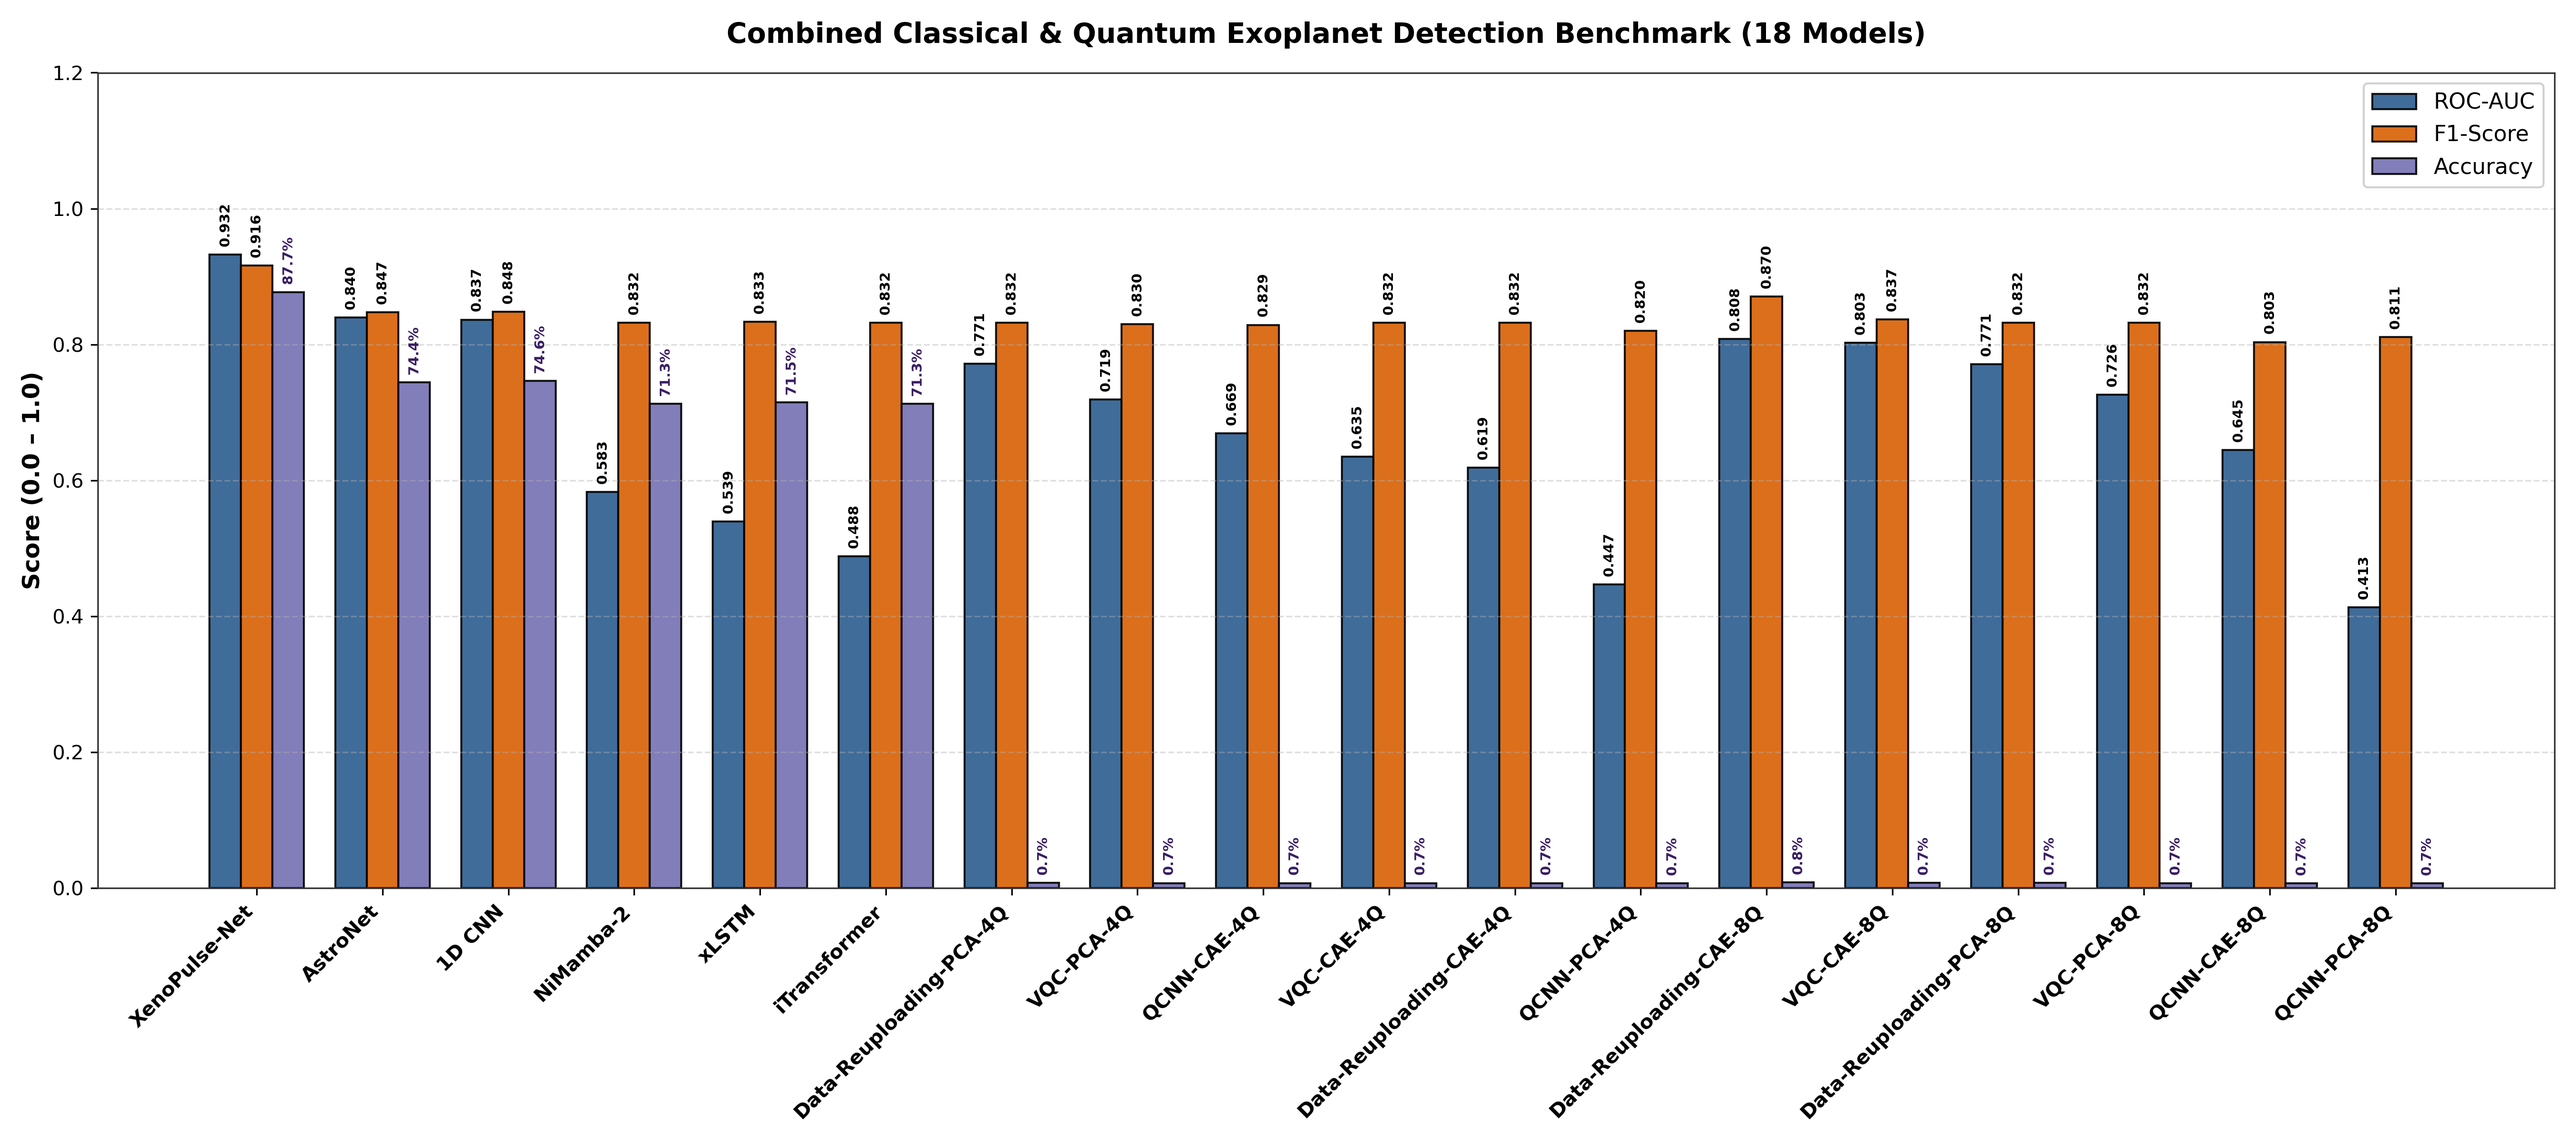
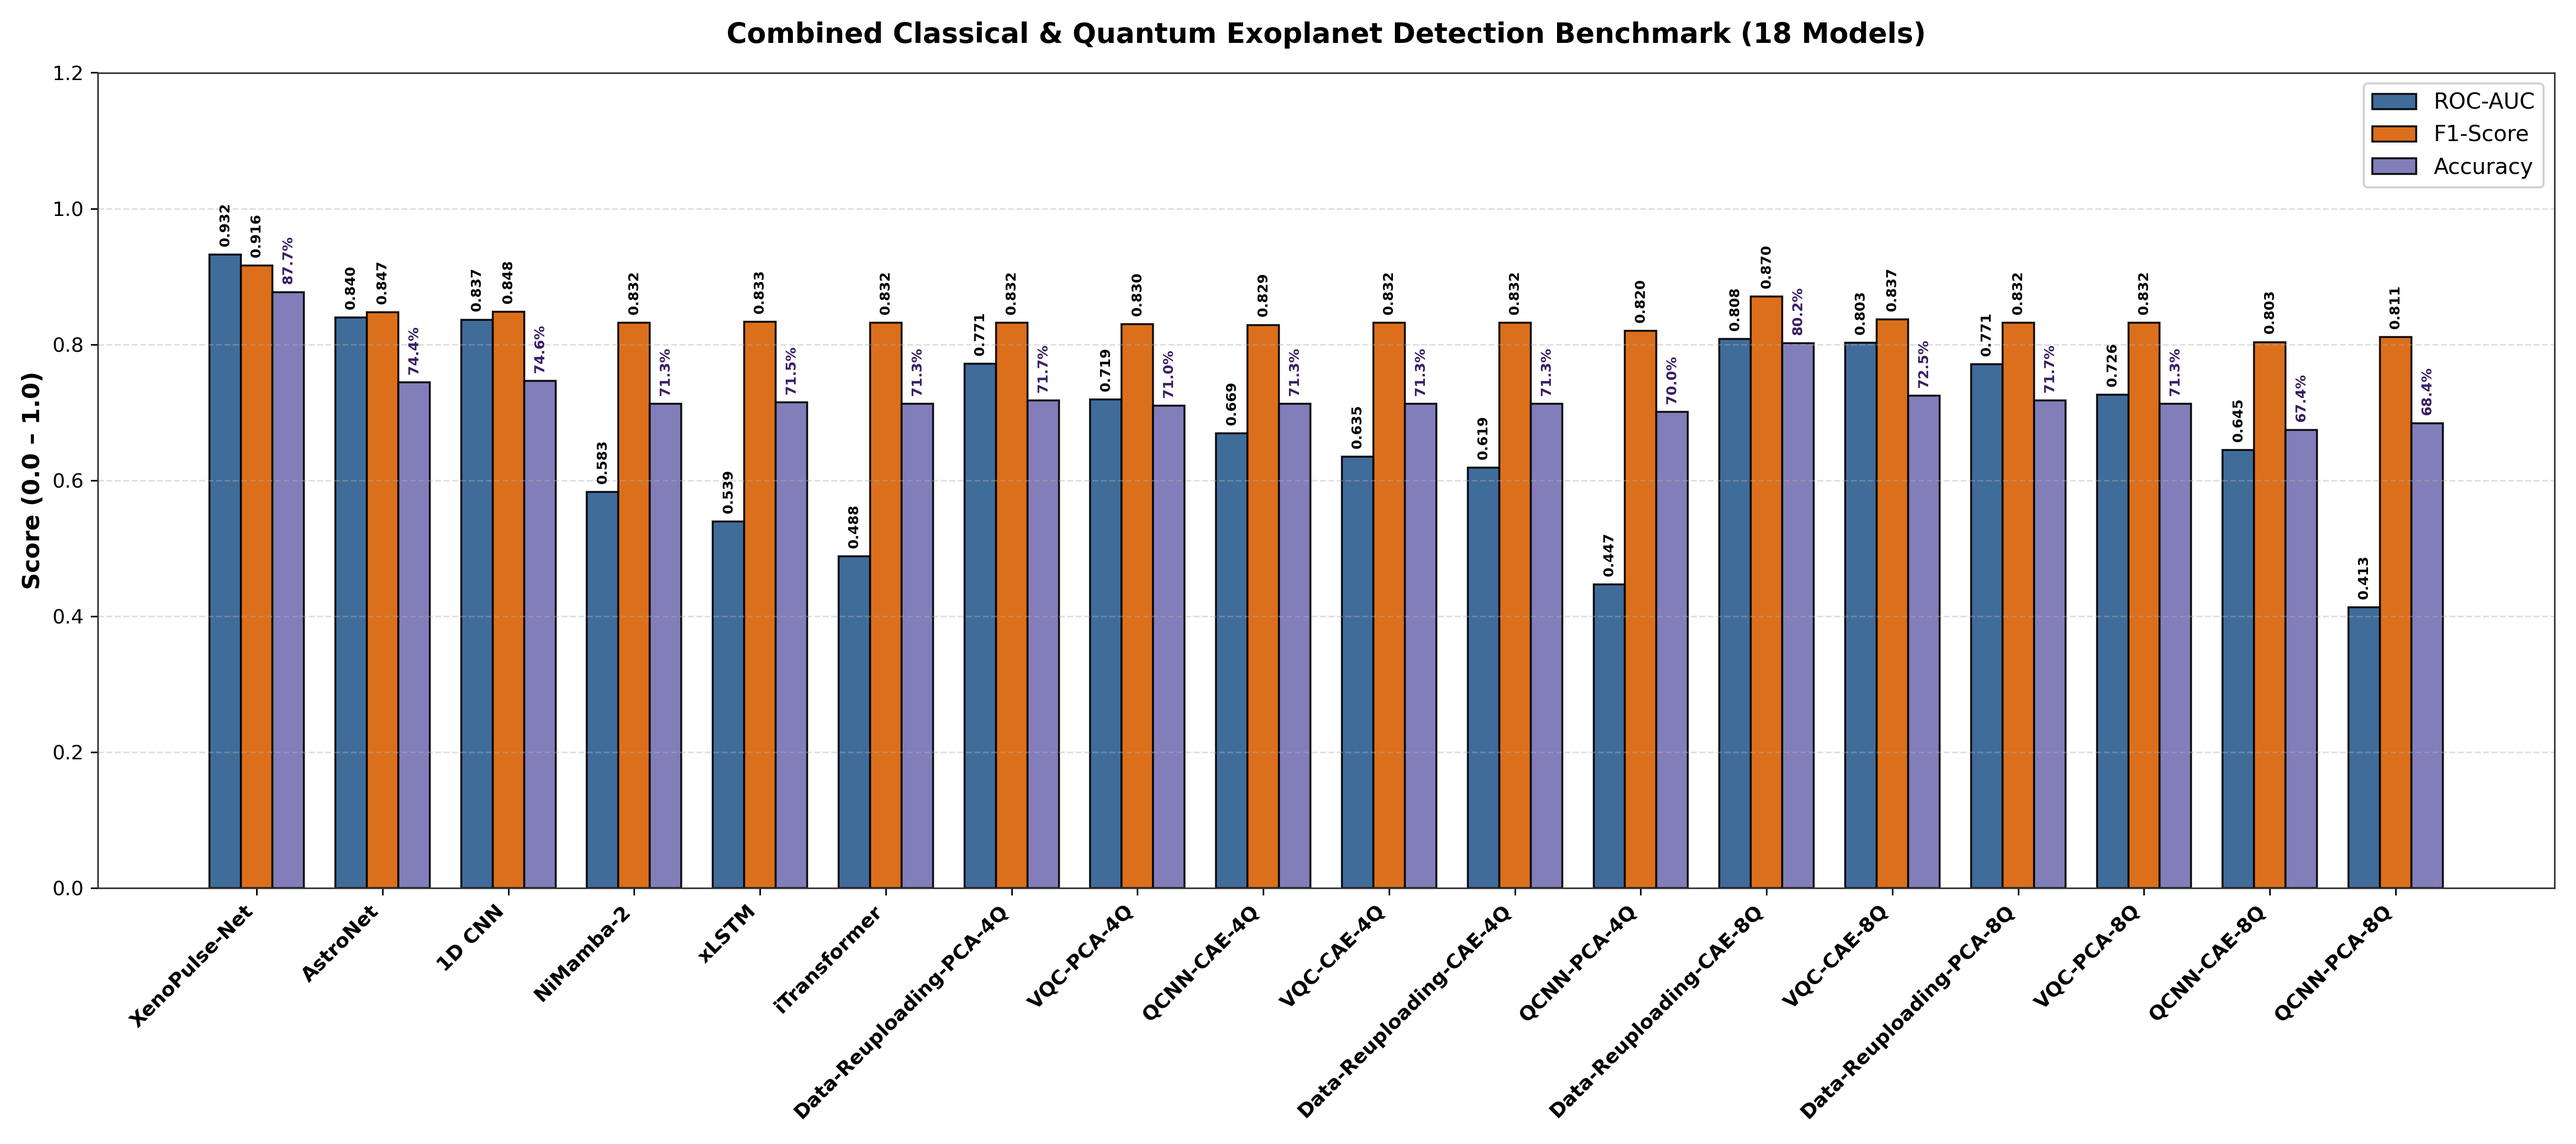
fix(viz): standardize accuracy units across classical and quantum models in benchmark plots

diff --git a/src/visualization/plot_benchmarks.py b/src/visualization/plot_benchmarks.py
@@ -24,6 +24,11 @@ def find_column(df, candidates):
                 return orig_col
     return None
 
+def standardize_accuracy(series):
+    """Converts decimal accuracies (<= 1.0) to percentages (0-100%)."""
+    s_numeric = pd.to_numeric(series, errors='coerce')
+    return s_numeric.apply(lambda v: v * 100.0 if pd.notnull(v) and v <= 1.0 else v)
+
 def load_classical_data():
     class_path = "logs/classical_benchmark_results.csv"
     if not os.path.exists(class_path):
@@ -42,14 +47,13 @@ def load_classical_data():
 
     c_df = pd.DataFrame()
     c_df['model_name'] = df[model_col].astype(str).str.strip()
-    c_df['test_acc'] = pd.to_numeric(df[acc_col], errors='coerce') if acc_col else np.nan
+    c_df['test_acc'] = standardize_accuracy(df[acc_col]) if acc_col else np.nan
     c_df['precision'] = pd.to_numeric(df[prec_col], errors='coerce') if prec_col else np.nan
     c_df['recall'] = pd.to_numeric(df[rec_col], errors='coerce') if rec_col else np.nan
     c_df['f1_score'] = pd.to_numeric(df[f1_col], errors='coerce') if f1_col else np.nan
     c_df['roc_auc'] = pd.to_numeric(df[auc_col], errors='coerce') if auc_col else np.nan
     c_df['train_time_sec'] = pd.to_numeric(df[time_col], errors='coerce') if time_col else np.nan
 
-    # Target Classical Models filter
     allowed_classical = {
         'itransformer': 'iTransformer',
         'astronet': 'AstroNet',
@@ -108,18 +112,16 @@ def load_quantum_data():
     q_df['arch_raw'] = raw_q[arch_col].astype(str).str.strip() if arch_col else ''
     q_df['qubits'] = pd.to_numeric(raw_q[qubit_col], errors='coerce').fillna(0).astype(int) if qubit_col else 0
     q_df['latent'] = raw_q[latent_col].astype(str).str.strip().str.upper() if latent_col else ''
-    q_df['test_acc'] = pd.to_numeric(raw_q[acc_col], errors='coerce') if acc_col else np.nan
+    q_df['test_acc'] = standardize_accuracy(raw_q[acc_col]) if acc_col else np.nan
     q_df['precision'] = pd.to_numeric(raw_q[prec_col], errors='coerce') if prec_col else np.nan
     q_df['recall'] = pd.to_numeric(raw_q[rec_col], errors='coerce') if rec_col else np.nan
     q_df['f1_score'] = pd.to_numeric(raw_q[f1_col], errors='coerce') if f1_col else np.nan
     q_df['roc_auc'] = pd.to_numeric(raw_q[auc_col], errors='coerce') if auc_col else np.nan
     q_df['train_time_sec'] = pd.to_numeric(raw_q[time_col], errors='coerce') if time_col else np.nan
 
-    # Filter strictly for 4 and 8 Qubits, and PCA/CAE Latents
     q_df = q_df[q_df['qubits'].isin([4, 8])].copy()
     q_df = q_df[q_df['latent'].isin(['PCA', 'CAE'])].copy()
 
-    # Standardize Model Display Names
     def construct_q_name(row):
         arch = row['arch_raw'].lower()
         q_str = f"{row['qubits']}Q"
@@ -146,7 +148,8 @@ def plot_benchmark_metrics(df):
     x = np.arange(len(df))
     width = 0.25
 
-    acc_normalized = df['test_acc'] / 100.0 if df['test_acc'].max() > 1.0 else df['test_acc']
+    # All test_acc values are now guaranteed to be on a 0-100 scale
+    acc_normalized = df['test_acc'] / 100.0
 
     bars1 = ax.bar(x - width, df['roc_auc'], width, label='ROC-AUC', color='#2b5c8f', edgecolor='black', alpha=0.9)
     bars2 = ax.bar(x, df['f1_score'], width, label='F1-Score', color='#d95f02', edgecolor='black', alpha=0.9)
@@ -173,10 +176,10 @@ def plot_benchmark_metrics(df):
             ax.text(bar.get_x() + bar.get_width()/2.0, yval + 0.012, f"{yval:.3f}", 
                     ha='center', va='bottom', fontsize=7.0, fontweight='bold', rotation=90)
 
-    for bar in bars3:
+    for bar, orig_acc in zip(bars3, df['test_acc']):
         yval = bar.get_height()
-        if not np.isnan(yval):
-            ax.text(bar.get_x() + bar.get_width()/2.0, yval + 0.012, f"{yval * 100:.1f}%", 
+        if not np.isnan(yval) and not np.isnan(orig_acc):
+            ax.text(bar.get_x() + bar.get_width()/2.0, yval + 0.012, f"{orig_acc:.1f}%", 
                     ha='center', va='bottom', fontsize=7.0, fontweight='bold', rotation=90, color='#381d63')
 
     plt.tight_layout()
@@ -236,7 +239,6 @@ if __name__ == "__main__":
     if combined_df.empty:
         print("❌ No matching classical or quantum model data found.")
     else:
-        # Sort classical models first, then quantum
         combined_df['sort_order'] = combined_df['category'].apply(
             lambda cat: 0 if 'Classical' in cat else (1 if '4Q' in cat else 2)
         )
